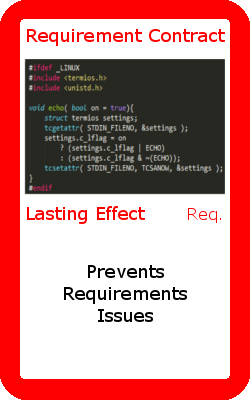
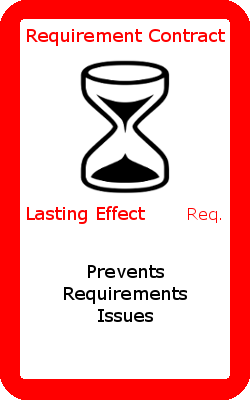
Added hire C/D/T cards, added images to types :

Changed region(s): [[0.084, 0.15, 0.924, 0.51]]

diff --git a/Assets/Scripts/PIG/Card.cs b/Assets/Scripts/PIG/Card.cs
@@ -9,6 +9,9 @@ public class Card : MonoBehaviour {
 	public int flatLinesObjective = 0;
 	public int flatDevelopers = 0;
 	public int flatCoders = 0;
+	public int flatPermCoders = 0;
+	public int flatPermDebuggers = 0;
+	public int flatPermTesters = 0;
 	public int flatDays = 0;
 	public int defectModifier = 0;
 	public int linesModifier = 0;
@@ -45,6 +48,9 @@ public class Card : MonoBehaviour {
 		activateEffect.flatLinesObjective = flatLinesObjective;
 		activateEffect.flatDevelopers = flatDevelopers;
 		activateEffect.flatCoders = flatCoders;
+		activateEffect.flatPermCoders = flatPermCoders;
+		activateEffect.flatPermDebuggers = flatPermDebuggers;
+		activateEffect.flatPermTesters = flatPermTesters;
 		activateEffect.flatDays = flatDays;
 		activateEffect.defectModifier = defectModifier;
 		activateEffect.linesModifier = linesModifier;
@@ -102,6 +108,9 @@ public class Card : MonoBehaviour {
 			system.flatLinesObjective (activateEffect.flatLinesObjective + system.percentDefects(activateEffect.percentDefects));
 			system.flatDevelopers (activateEffect.flatDevelopers);
 			system.flatCoders (activateEffect.flatCoders);
+			system.flatPermCoders (activateEffect.flatPermCoders);
+			system.flatPermDebuggers (activateEffect.flatPermDebuggers);
+			system.flatPermTesters (activateEffect.flatPermTesters);
 			system.flatDays (activateEffect.flatDays);
 			system.changeDefectModifier (activateEffect.defectModifier);
 			system.changeLinesModifier (activateEffect.linesModifier);
@@ -135,6 +144,9 @@ public class Card : MonoBehaviour {
 		public int flatLinesObjective = 0;
 		public int flatDevelopers = 0;
 		public int flatCoders = 0;
+		public int flatPermCoders = 0;
+		public int flatPermDebuggers = 0;
+		public int flatPermTesters = 0;
 		public int flatDays = 0;
 		public int defectModifier = 0;
 		public int linesModifier = 0;

diff --git a/Assets/Scripts/PIG/GameSystem.cs b/Assets/Scripts/PIG/GameSystem.cs
@@ -179,6 +179,24 @@ public class GameSystem : MonoBehaviour {
 		if (coders < 0)
 			coders = 0;
 	}
+	public void flatPermCoders(int change){
+		coders += change;
+		if (coders < 0)
+			coders = 0;
+		RoleAllocHudUpdate ();
+	}
+	public void flatPermDebuggers(int change){
+		debuggers += change; //coderMod += change;
+		if (debuggers < 0)
+			debuggers = 0;
+		RoleAllocHudUpdate ();
+	}
+	public void flatPermTesters(int change){
+		testers += change;//coderMod += change;
+		if (testers < 0)
+			testers = 0;
+		RoleAllocHudUpdate ();
+	}
 	public void flatDays(int change){
 		sprint.updateSprintDuration (change);daysText.GetComponent<Text> ().text = "Day " + sprint.currentDay + " of " + sprint.sprintDuration;
 		dayIndicatorText.GetComponent<Text> ().text = "" + sprint.currentDay;

diff --git a/Assets/Scripts/PIG/Deck.cs b/Assets/Scripts/PIG/Deck.cs
@@ -27,7 +27,9 @@ public class Deck
         AddMultiple("ExecutiveSupport", 2);
         AddMultiple("FireDeveloper", 2);
         //AddMultiple("FormalTechReview", 2);
-        AddMultiple("HireDeveloper", 2);
+        AddMultiple("HireCoder", 1);
+		AddMultiple("HireDebugger", 1);
+		AddMultiple("HireTester", 1);
         AddMultiple("NegotiateBudget", 2);
         AddMultiple("NegotiateTime", 2);
         AddMultiple("PairProgramming", 2);
